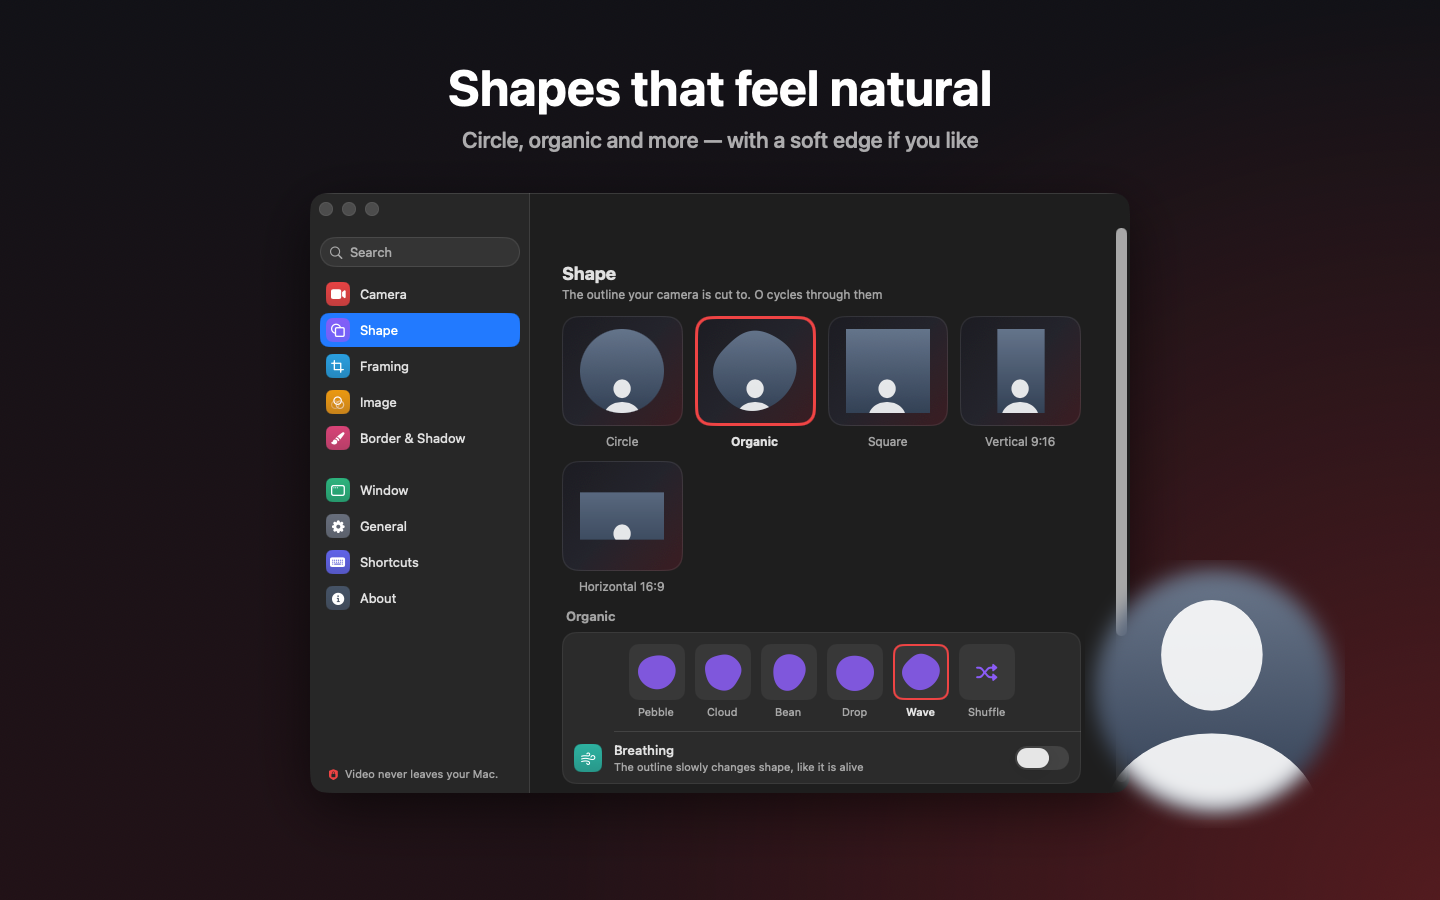
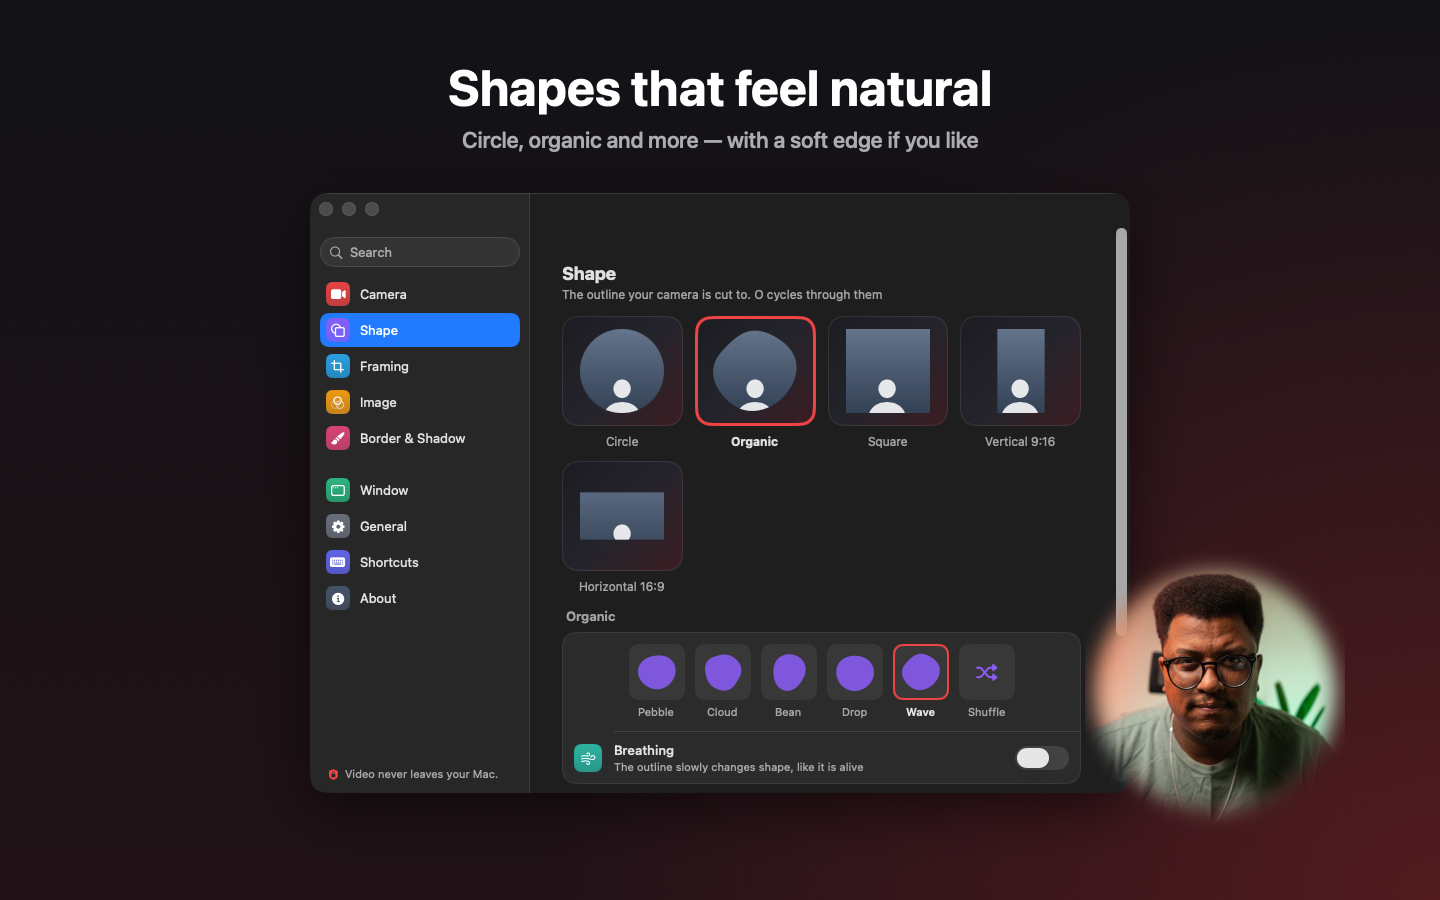
docs: README screenshots with the author's photo in the camera bubble

Changed region(s): [[0.75, 0.6222, 0.9375, 0.9333]]

diff --git a/appstore/screenshots/compose.swift b/appstore/screenshots/compose.swift
@@ -4,7 +4,7 @@
 // Run from the repo root (compiled; the `swift` script runner crashes on ImageRenderer):
 //     swiftc -O -o /tmp/compose appstore/screenshots/compose.swift && /tmp/compose [--readme]
 //
-// --readme writes silhouette-only English images to docs/images for the README.
+// --readme writes the English images to docs/images for the README.
 //
 // Reads  appstore/screenshots/raw/<lang>-<page>.png  and  appstore/screenshots/portrait.jpg (optional; a silhouette
 // is drawn without it). Writes appstore/screenshots/<lang>/<n>-<name>.png.
@@ -197,9 +197,10 @@ func write<V: View>(_ view: V, to url: URL) throws {
     try png.write(to: url)
 }
 
-// --readme: English only, always the silhouette (the repo is public), written to docs/images.
+// --readme: English only, written to docs/images. Uses portrait.jpg too (its owner agreed to show it on the public
+// README); the photo file itself stays out of git.
 let forReadme = CommandLine.arguments.contains("--readme")
-let portrait = forReadme ? nil : NSImage(contentsOf: root.appendingPathComponent("portrait.jpg"))
+let portrait = NSImage(contentsOf: root.appendingPathComponent("portrait.jpg"))
 print(portrait == nil ? "(drawing a silhouette)" : "using portrait.jpg")
 
 let copy: [String: [(page: String, title: String, subtitle: String, style: BubbleStyle)]] = [
